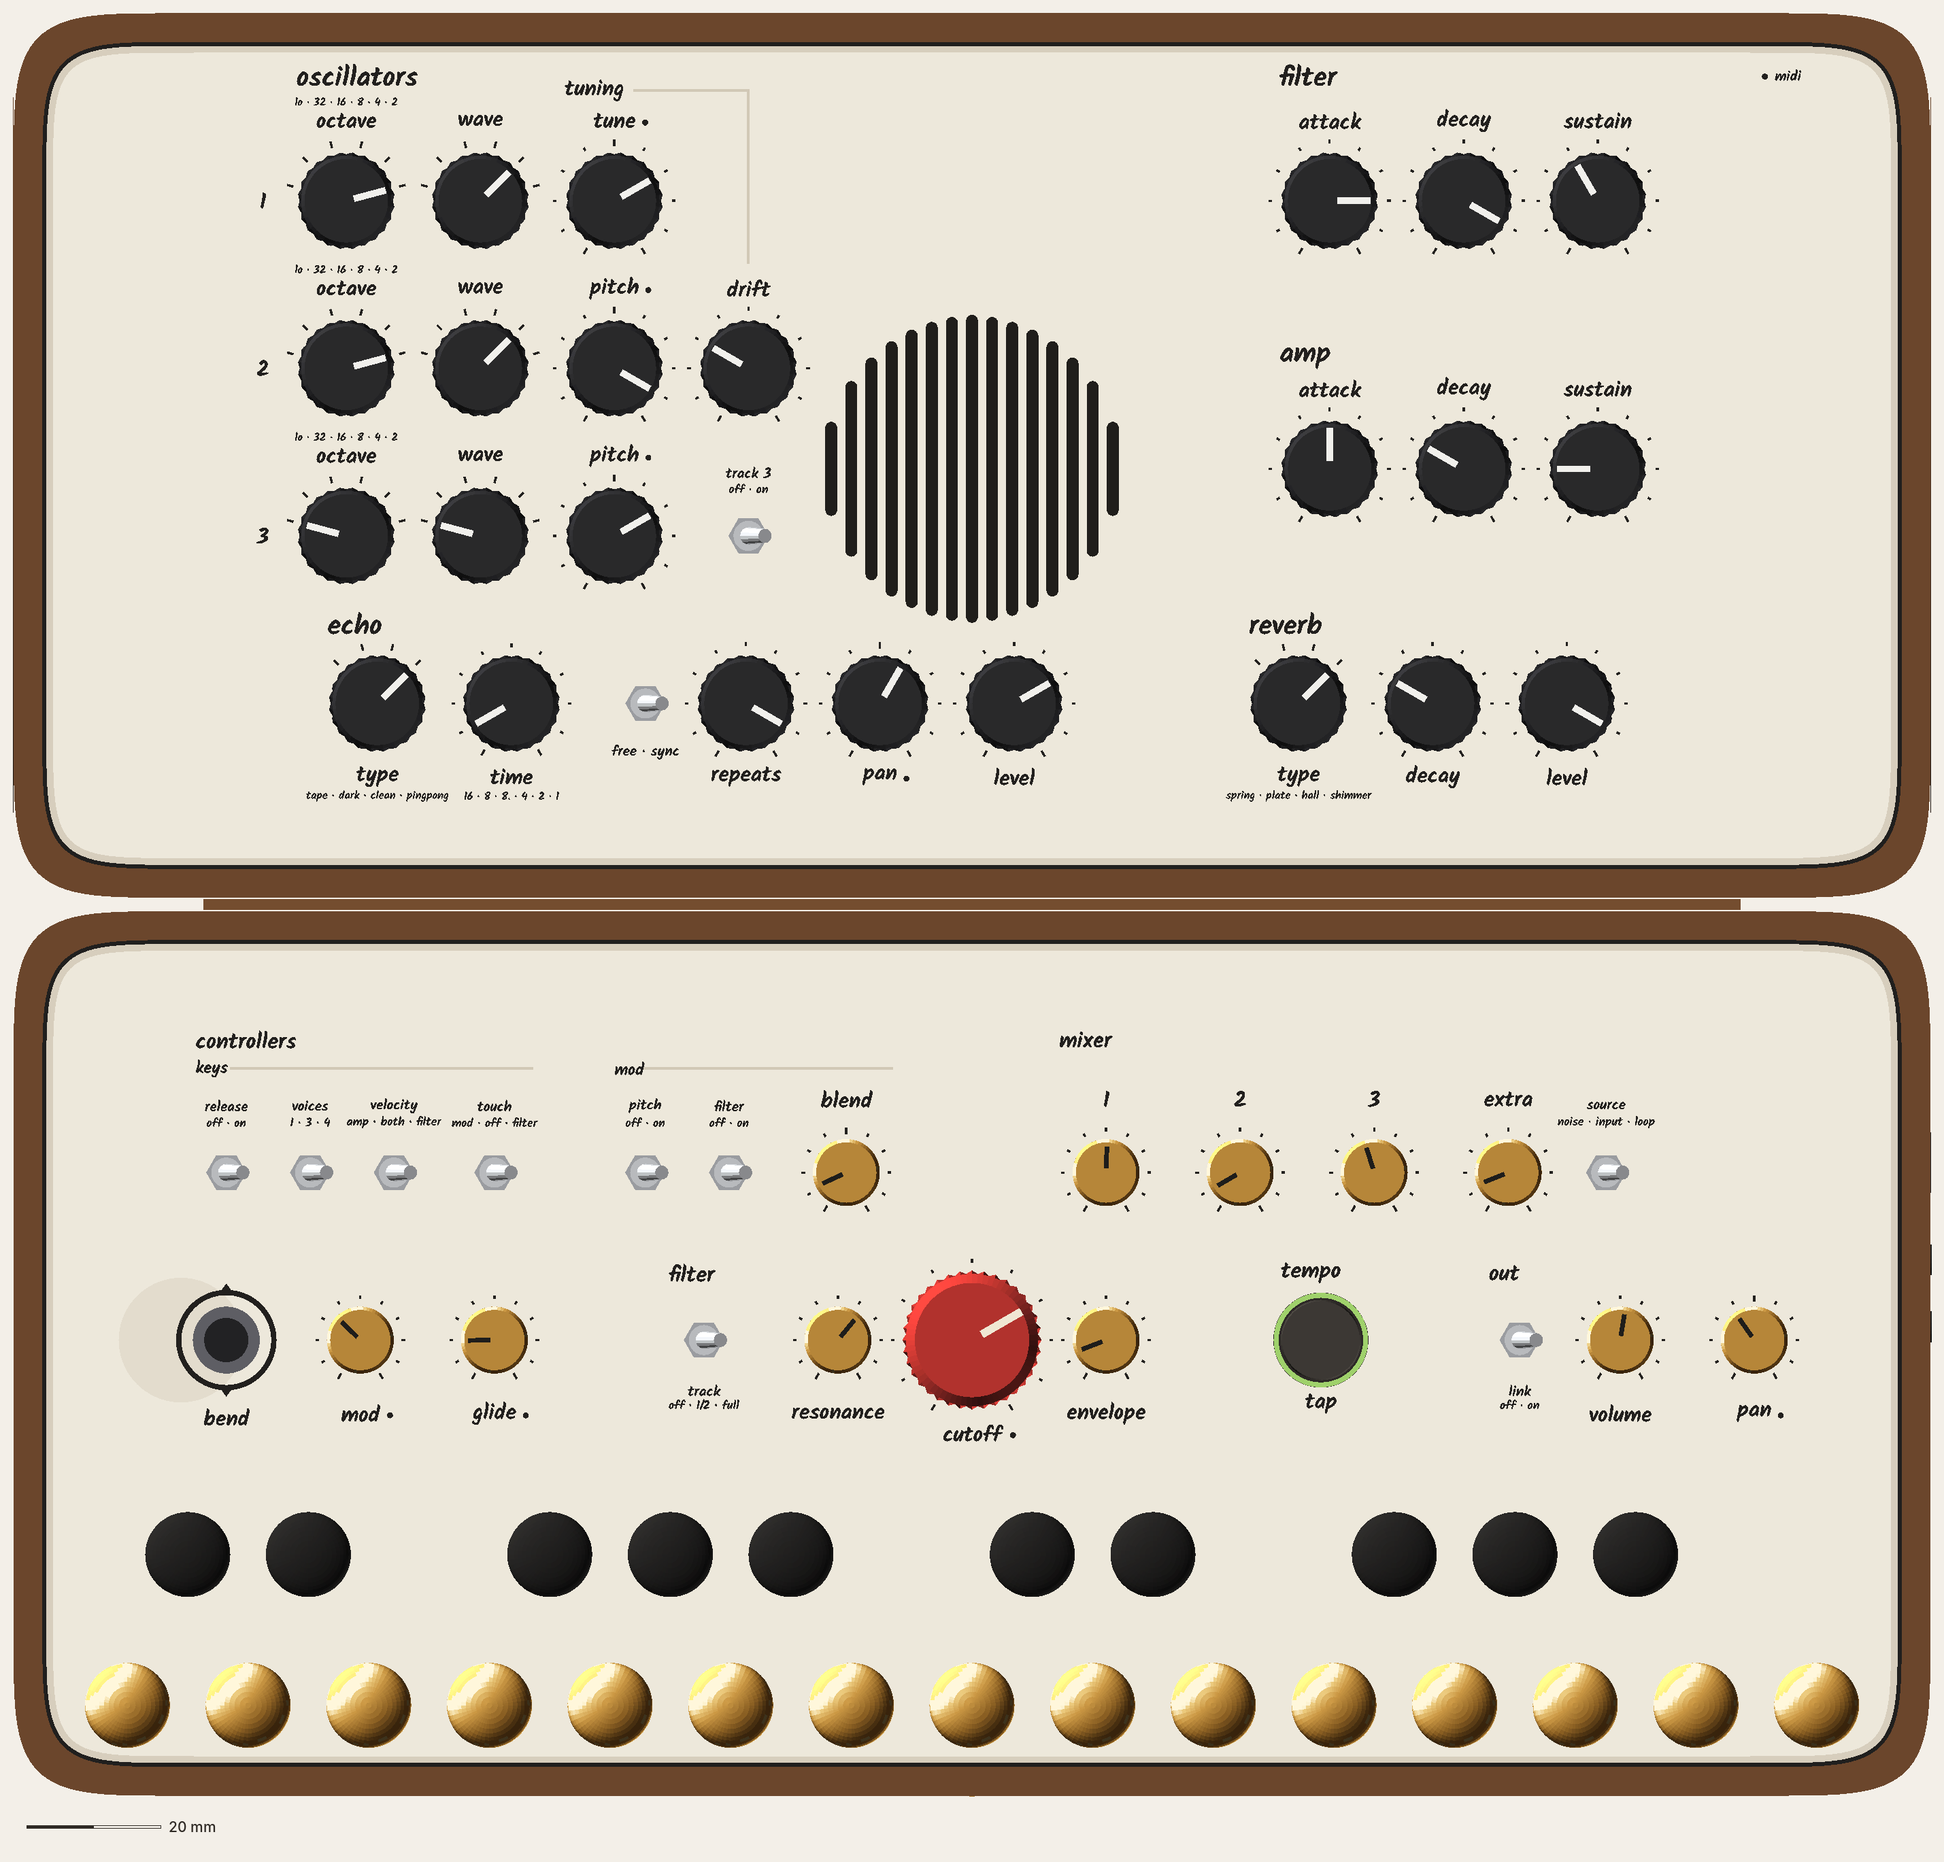
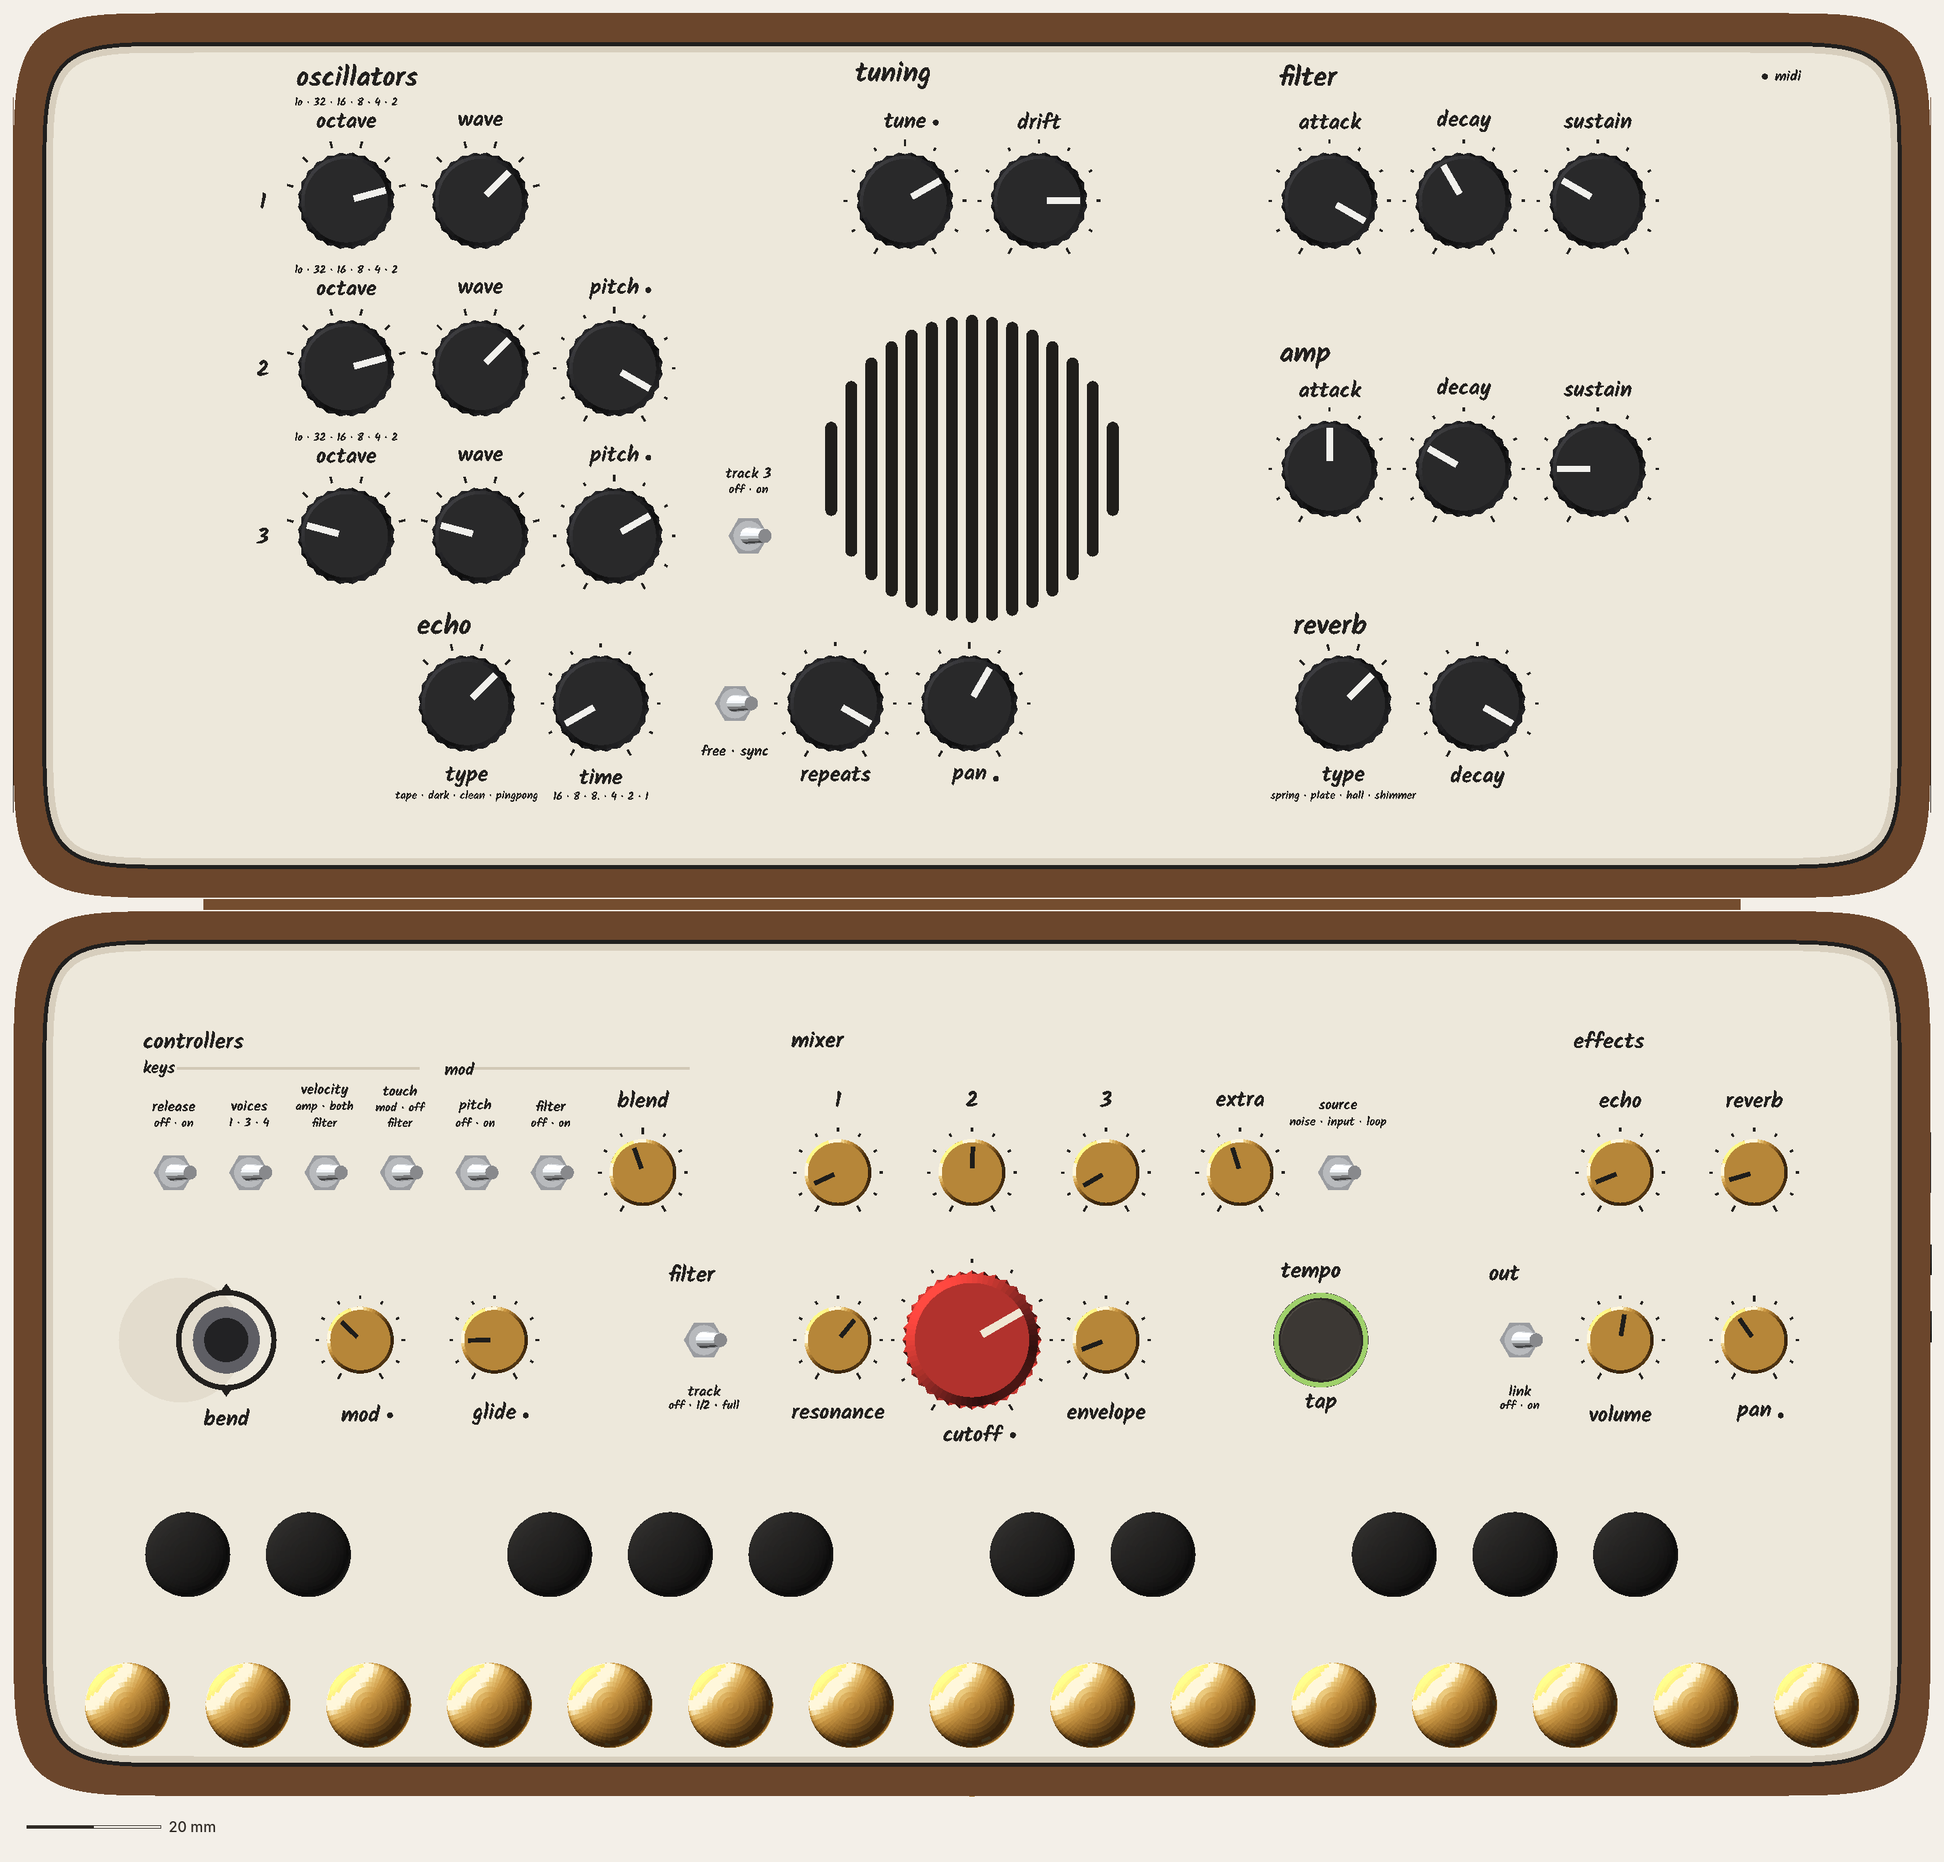
CATHEDRAL P5RS (f9036a9), visual: stacked position words on rear base switches (1.2 leading), top and standing re-rendered; real-Kalam 0

diff --git a/design/concepts/_mock-src/rb.py b/design/concepts/_mock-src/rb.py
@@ -1806,6 +1806,7 @@ def nv_notes(lc):
 NV_KEYS_COLUMN = True
 NV_UNDER_GAP = 2.0        # "free · sync" under its toggle: at 1.75 real Kalam sat 1.27 from the nut
 ABOVE2_BOT, ABOVE2_LEAD = 1.9, 1.2   # lid "above2" (P5R keys): tighter, so row C's one heading line clears both the keys' words and the window
+STACK_LEAD = 1.2         # stacked position lines (§31.2), the checker's gap
 BELOW2_LEAD = 1.25        # its leading: at 0.9 (the base's) "velocity" sat 0.01 over "amp · both · filter" (y descender over b / f / l)
 BELOW2_TOP = 2.25         # "below2" two-line legends (base front row, P5O keys): block top TGL + 2.25 under the switch (real Kalam ascent)
 TS_LEAD = (1.2, 1.3)     # two-line toggle legend: name centre d + 1.2, positions centre d - 1.3 (real Kalam leading;
@@ -2176,8 +2177,13 @@ class Nave(Cathedral):
                 hn, hp = 0.85 * lc.SW_LS, 0.85 * lc.NS
                 if self.rear(y):                            # rear row: name over positions, ABOVE the toggle
                     bot = y + lc.TGL + 2.35
-                    s += txt(x, bot + hp / 2, z, pos, lc.NS, ink, font=st.font)
-                    s += txt(x, bot + hp + (BELOW2_LEAD if self._sq() else 0.9) + hn / 2, z, nm, lc.SW_LS, ink, font=st.font)
+                    pl = pos.split("/")                     # §31.2: "/" stacks position words, first line on top
+                    yy = bot
+                    for q in reversed(pl):
+                        s += txt(x, yy + hp / 2, z, q.strip(), lc.NS, ink, font=st.font)
+                        yy += hp + STACK_LEAD
+                    yy -= STACK_LEAD
+                    s += txt(x, yy + (BELOW2_LEAD if self._sq() else 0.9) + hn / 2, z, nm, lc.SW_LS, ink, font=st.font)
                     continue
                 top = y - lc.TGL - 2.25                     # 2.25 / 0.9: real Kalam's ascent
                 s += txt(x, top - hn / 2, z, nm, lc.SW_LS, ink, font=st.font)

diff --git a/design/branches/concepts/cathedral/how-it-looks-and-feels.md b/design/branches/concepts/cathedral/how-it-looks-and-feels.md
@@ -39,7 +39,7 @@ Seed: CHAMBER rev 2 + FOLD-105 v1.1. Owner record: `design/owner.md` (14:12 onwa
 
 ### P5RS: the owner's markup over P5R (systems §31, 0375919)
 <figure>
-<img src="img/cathedral-s10-P5RS-top-9.9px-per-mm.png" alt="Exact top view of P5RS open flat. Lid: oscillators 1, 2 and 3 stacked at the left (octave with its positions line, wave, pitch; tune on VCO 1's row and drift in VCO 2's fourth column, joined by the engraved tuning L-rule; track 3 by VCO 3); the filter envelope over the amp envelope at the top right; the slotted window between them; a bottom row of echo (type, time, free · sync, repeats, pan, level) and reverb (type, decay, level). Base: rear row keys (release, voices, velocity, touch), mod (pitch, filter, blend) and mixer (1, 2, 3, extra, source); front row bend, mod, glide, filter with the red cutoff, tempo with the black tap in its lit ring, out (link, volume, pan).">
+<img src="img/cathedral-s10-P5RS-top-9.9px-per-mm.png" alt="Exact top view of P5RS open flat. Lid: oscillators 1, 2 and 3 stacked at the left (octave with its positions line, wave, and pitch on VCOs 2 and 3; track 3 by VCO 3); a centred tuning pair (tune, drift) over the slotted window; the filter envelope over the amp envelope at the top right; a bottom row of echo (type, time, free · sync, repeats, pan) and reverb (type, decay). Base: rear row keys (release, voices, velocity and touch with their positions on two lines), mod (pitch, filter, blend), mixer (1, 2, 3, extra, source) and effects (echo, reverb); front row bend, mod, glide, filter with the red cutoff, tempo with the black tap in its lit ring, out (link, volume, pan).">
 <figcaption><b>P5RS, his markup</b> (exact, scale bar 20 mm), with the marking system and the MIDI key. Real Kalam 0, systems' rules 0, the director's tests 0.</figcaption>
 </figure>
 <figure>
@@ -47,7 +47,8 @@ Seed: CHAMBER rev 2 + FOLD-105 v1.1. Owner record: `design/owner.md` (14:12 onwa
 <figcaption><b>P5RS, standing.</b></figcaption>
 </figure>
 
-- **The stretch above the grille:** first render, it sat 10 mm right of the axis (25.9 / 45.9 mm). Systems' fix (80c575c, §31.1): drift moves to VCO 2's 4th column under the "tuning" L-rule, as on P5OB-D. The stretch is now centred on the window, both margins are 22.9, and the L-rule is drawn. Checks 0.
+- **The stretch above the grille:** first render, it sat 10 mm right of the axis. 80c575c tried drift under an L-rule. **f9036a9 (§31.2):** tune · drift are a "tuning" pair centred over the grille, and VCO 1 reads octave · wave. The echo / reverb levels are back on the base over volume · pan, and the mixer is back over the filter. Keys and mod switches are on M/4 (11.25), with velocity / touch positions stacked on two lines.
+- **Visual fit, for systems to fold:** stacked position lines need **1.2 mm** between them in real Kalam (the checker's 0.5 let "filter" overlap "amp · both"). Real Kalam 0 and the director's tests 0. The one checker flag is systems' pinned base back-row gap (15.1 vs 28.6).
 
 ### Case ratio (owner: "is there a more pleasing and harmonious case ratio … derived from the dimensions of the device … base it on the face dimensions / ratio")
 **What's fixed and what isn't.** The width is set by the keyboard (15 naturals at 18 mm): 286 outside, a 277.4 face. The closed thickness (55.2) doesn't change with depth. So the one free dimension is each half's depth D, and with it the face height (D − 8.6). That's inside systems' envelope (§30.1): P5R needs D ≥ 132; P5OB-D needs ≥ 143, and its stick landing holds at any D ≥ 143. Width has no upper limit, but each extra mm re-spreads every row, so the keys keep it at 286. Golden (1.618) or 3 : 2 per half would need D 177 / 191, a third deeper than any layout needs: deep, half-empty plates in a bag-sized object. They're out.
